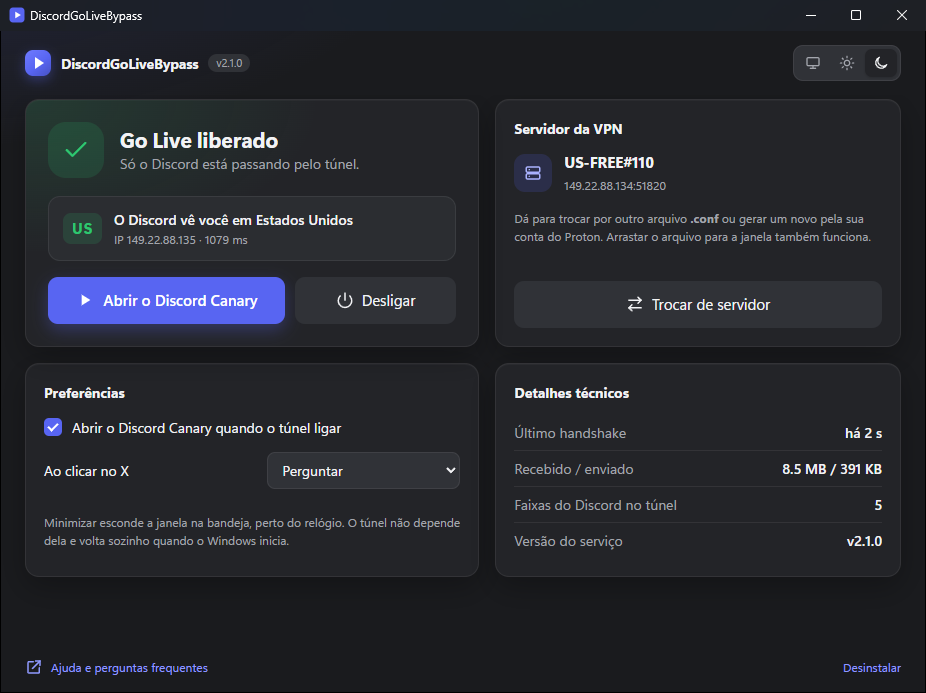
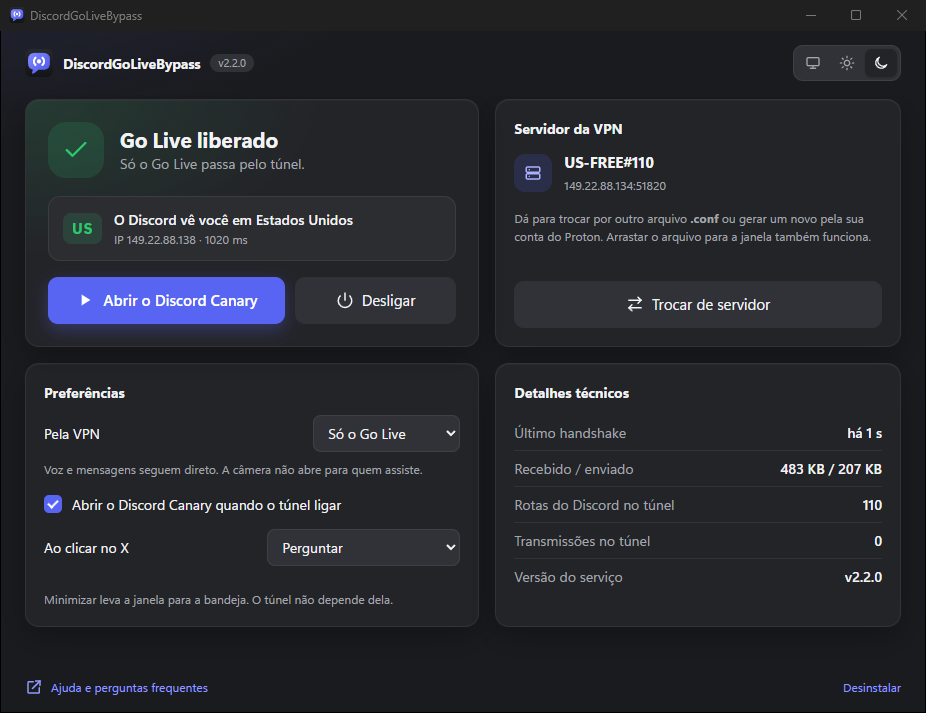
📚 docs: os dois modos no readme e no guia

diff --git a/README.md b/README.md
@@ -4,7 +4,7 @@
 
 # DiscordGoLiveBypass
 
-**Leva só o Discord por uma VPN fora do Brasil e devolve o Go Live, a câmera e a transmissão de tela.**
+**Passa o Go Live do Discord por uma VPN fora do Brasil e deixa a voz e as mensagens na sua conexão.**
 
 [![Versão](https://img.shields.io/github/v/release/thomassolcia/DiscordGoLiveBypass?style=flat-square&label=vers%C3%A3o&color=5865F2)](../../releases/latest)
 [![Downloads](https://img.shields.io/github/downloads/thomassolcia/DiscordGoLiveBypass/total?style=flat-square&label=downloads&color=5865F2)](../../releases)
@@ -16,14 +16,14 @@
 
 </div>
 
-Você abre o programa, entra com a sua conta gratuita do Proton VPN ou escolhe um arquivo WireGuard, e clica em Ativar. A partir daí um serviço do Windows mantém um túnel que leva apenas o tráfego do Discord para fora do Brasil, desde que o computador liga. Você abre o Discord pelo atalho de sempre e o Go Live funciona.
+Você abre o programa, entra com a sua conta gratuita do Proton VPN ou escolhe um arquivo WireGuard, e clica em Ativar. A partir daí um serviço do Windows mantém um túnel que leva para fora do Brasil só o que o Discord precisa para liberar o Go Live, desde que o computador liga. Você abre o Discord pelo atalho de sempre e o Go Live funciona.
 
 <p align="center">
-  <img src="docs/janela-escura.png" alt="Janela do DiscordGoLiveBypass no tema escuro, com o Go Live liberado e o Discord saindo pelos Estados Unidos" width="49%">
+  <img src="docs/janela-escura.png" alt="Janela do DiscordGoLiveBypass no tema escuro, com o Go Live liberado e só a transmissão passando pelo túnel" width="49%">
   <img src="docs/janela-clara.png" alt="A mesma janela no tema claro" width="49%">
 </p>
 
-> **Windows 10 e 11.** Só o Discord muda de rota: o jogo que você está transmitindo, o navegador e o resto do computador continuam na sua conexão normal. O servidor de saída é o da sua VPN, então a confiança que vale é a que você tem nela.
+> **Windows 10 e 11.** Por padrão, só o gateway e a API do Discord e as transmissões mudam de rota. A voz da chamada, as mensagens, os anexos, o jogo que você está transmitindo e o resto do computador continuam na sua conexão normal. Quem precisa da câmera pode pôr o Discord inteiro no túnel, com a voz mais lenta. O servidor de saída é o da sua VPN, então a confiança que vale é a que você tem nela.
 
 ## Por que o Go Live parou de funcionar
 
@@ -44,6 +44,8 @@ Até a 1.0.4 o programa abria o Discord com `--proxy-server`, apontando para um 
 No começo de setembro o Discord passou a recusar essa combinação. A transmissão liberava, mas quem tentava assistir ficava no carregamento e caía em "Stream failed to start", **Erro 2012**, que é o tempo limite de 20 segundos esperando o primeiro quadro de vídeo. Proxy gratuito e Tor não carregam UDP, então nenhum ajuste no modelo antigo resolvia.
 
 Desde a 2.0, o programa liga um túnel WireGuard e põe nele as faixas de IP do Discord: gateway, API, CDN e os servidores de voz e vídeo. Tudo o que o Discord faz sai pelo mesmo IP de fora, UDP incluso. A 2.1 manteve o túnel e trocou a janela preta por um aplicativo de verdade.
+
+Levar o Discord inteiro tinha um preço. A voz ia até o servidor da VPN e voltava, e com o Proton gratuito, que sai nos Estados Unidos, a chamada passava de 200 ms. Pior: o Discord escolhe a região da chamada pelo IP de quem pergunta, então quem estava no Brasil caía num servidor de Seattle. Nos testes da 2.2, a transmissão abriu para quem assistia com só o gateway, a API e a conexão da própria transmissão saindo pela VPN. Por isso, agora é só isso que passa pelo túnel. A voz, as mensagens, os anexos e o teste de latência voltam para a sua conexão, e a chamada volta para um servidor do Brasil. A câmera é a exceção, e está explicada em [Só o Go Live ou o Discord inteiro](#só-o-go-live-ou-o-discord-inteiro).
 
 ## Como usar
 
@@ -74,6 +76,16 @@ Nada. O túnel liga sozinho quando o Windows inicia, e você abre o Discord pelo
 A janela serve para ver e mexer: mostra em que país o Discord vê você, liga e desliga o túnel, troca o servidor e abre o Discord. Minimizar esconde a janela na bandeja, perto do relógio, e o menu do ícone faz as mesmas coisas. O tema claro, escuro ou o do Windows se escolhe no canto de cima.
 
 O X pergunta o que você quer: deixar o programa na bandeja, com o túnel ligado e o Go Live funcionando, ou desligar o túnel e fechar. Marcando **Não perguntar de novo**, a escolha vira o padrão, e dá para trocá-la nas preferências.
+
+### Só o Go Live ou o Discord inteiro
+
+Nas preferências da janela, **Pela VPN** escolhe o que passa pelo túnel.
+
+**Só o Go Live** é o padrão. Pelo túnel vão o gateway e a API do Discord, que é onde ele decide o que a conta pode fazer, e cada transmissão, só enquanto ela está aberta, seja a sua ou uma que você está assistindo. A voz, as mensagens, os anexos e as imagens seguem pela sua conexão, sem atraso, e a chamada fica num servidor do Brasil quando é você quem entra primeiro. A câmera não abre para quem assiste, porque ela viaja na mesma conexão da voz e o Discord decide o bloqueio na hora em que essa conexão nasce.
+
+**O Discord inteiro** funciona como até a 2.1: tudo do Discord passa pelo túnel. A câmera volta a funcionar, mas a voz faz a volta até o servidor da VPN e ganha esse atraso.
+
+A troca vale na hora para o túnel, mas uma chamada em andamento continua do jeito que entrou. Depois de trocar, saia e entre de novo na chamada.
 
 ## Antes de confiar no arquivo
 
@@ -106,7 +118,7 @@ Precisa de um servidor WireGuard, e a conta gratuita do Proton VPN é o jeito ma
 <summary><strong>Por que não usar uma VPN comum direto?</strong></summary>
 <br>
 
-Dá, e funciona. A diferença é que a VPN comum leva o computador inteiro: o jogo que você está transmitindo ganha ping, e banco, streaming e downloads passam a sair pelo servidor dela. Aqui só o Discord vai pelo túnel. Se você não se importa de pôr tudo na VPN, ela resolve com o mesmo esforço.
+Dá, e funciona. A diferença é que a VPN comum leva o computador inteiro: o jogo que você está transmitindo ganha ping, a voz da chamada também, e banco, streaming e downloads passam a sair pelo servidor dela. Aqui só o Go Live vai pelo túnel. Se você não se importa de pôr tudo na VPN, ela resolve com o mesmo esforço.
 </details>
 
 <details>
@@ -129,14 +141,18 @@ Um serviço chamado `DiscordGoLiveBypass`, o programa em `C:\Program Files\Disco
 <summary><strong>Vai ficar lento?</strong></summary>
 <br>
 
-O Discord passa a dar a volta pelo servidor da VPN, então o ping dele sobe um pouco, mais ou menos o quanto o servidor está longe. O resto do computador não muda. O plano gratuito do Proton tem velocidade média e servidores às vezes cheios; se a chamada engasgar, gere um arquivo com outro servidor e arraste para a janela.
+No modo **Só o Go Live**, a voz, as mensagens e o resto do computador não mudam. Quem dá a volta pelo servidor da VPN é a transmissão, então a imagem chega a quem assiste com um pouco mais de atraso, mais ou menos o quanto o servidor está longe. No modo **O Discord inteiro**, a voz faz a mesma volta, e com o Proton gratuito nos Estados Unidos isso passa de 200 ms.
+
+O plano gratuito do Proton tem velocidade média e servidores às vezes cheios. Se a transmissão engasgar, gere um arquivo com outro servidor e arraste para a janela.
 </details>
 
 <details>
 <summary><strong>Funciona no Discord estável, PTB e Canary?</strong></summary>
 <br>
 
-Nos três. O túnel pega o tráfego de qualquer um deles, e também o do Discord no navegador. O botão "Abrir o Discord" abre o que já estiver aberto ou, se nenhum estiver, o primeiro instalado: estável, depois PTB, depois Canary.
+Nos três. O túnel pega o tráfego de qualquer um deles, e o serviço acompanha o registro dos três para saber quando uma transmissão abre. O botão "Abrir o Discord" abre o que já estiver aberto ou, se nenhum estiver, o primeiro instalado: estável, depois PTB, depois Canary.
+
+O Discord no navegador não escreve esse registro, então no modo **Só o Go Live** o serviço não vê a transmissão abrir e ela sai pela sua conexão. Para transmitir pelo navegador, troque para **O Discord inteiro**.
 </details>
 
 <details>
@@ -162,6 +178,22 @@ De vez em quando o Proton pede um CAPTCHA no login. Ele abre numa janelinha sepa
 Clique em **Trocar de servidor**. Na tela que abre, você escolhe outro arquivo `.conf` ou entra com a conta do Proton e escolhe o país; arrastar um arquivo para a janela abre a mesma tela. Depois de confirmar a troca, o túnel passa a usar o novo servidor na hora.
 
 A configuração gerada pela conta tem validade: o programa pede um ano ao Proton, e a data que ele concedeu aparece na janela quando ela é criada. Depois disso, é só gerar outra.
+</details>
+
+<details>
+<summary><strong>O serviço lê o registro do Discord?</strong></summary>
+<br>
+
+Lê. No modo **Só o Go Live**, é assim que ele sabe a hora de pôr uma transmissão no túnel: o Discord anota no `renderer_js.log`, dentro de `%APPDATA%\discord\logs` (ou `discordptb` e `discordcanary`), quando vai abrir uma transmissão e a que servidor de mídia conectou. O serviço acompanha esse arquivo enquanto ele cresce e só procura essas linhas. Nada do arquivo é guardado nem sai do computador. No registro do próprio serviço fica só a hora em que cada transmissão abre e fecha e o servidor do Discord que ela usou.
+
+No modo **O Discord inteiro**, o registro não é usado para nada.
+</details>
+
+<details>
+<summary><strong>Eu usava a 2.1, o que muda?</strong></summary>
+<br>
+
+Depois de atualizar, o túnel começa no modo **Só o Go Live**: a voz volta para a sua conexão e a chamada para um servidor do Brasil. Se você usa câmera, troque para **O Discord inteiro** nas preferências. Feche o Discord pela bandeja, em **Sair**, e abra de novo, para ele refazer o teste de latência pela sua conexão.
 </details>
 
 <details>
@@ -212,9 +244,27 @@ O Windows recusou o driver ou o adaptador. Antivírus com proteção de rede cos
 <summary><strong>O Go Live continua bloqueado ou dá Erro 2012</strong></summary>
 <br>
 
-Confira três coisas. Plugin de bypass ativo no Vencord ou BetterDiscord mexe na conexão depois que o Discord abre e pode desfazer o túnel: desative e tente de novo. Quem assiste também precisa estar com o Go Live liberado, por este programa ou por uma VPN. E o `Validar-rota.ps1`, que vem no `.zip`, mostra se a voz e o vídeo estão mesmo saindo pelo adaptador `DiscordGoLiveBypass`.
+Confira três coisas. Plugin de bypass ativo no Vencord ou BetterDiscord mexe na conexão depois que o Discord abre e pode desfazer o túnel: desative e tente de novo. Quem assiste também precisa estar com o Go Live liberado, por este programa ou por uma VPN. E o `Validar-rota.ps1`, que vem no `.zip`, mostra o modo do túnel e por onde cada parte do Discord está saindo.
 
-Se a transmissão abre, mas quem assiste fica carregando, olhe a linha `Ultimo servidor de voz e video do Discord` no resultado do script. Se ela aparece em vermelho, o Discord mudou os servidores de mídia de lugar de novo e o túnel ainda não conhece a faixa nova: abra uma issue com esse resultado.
+No modo **Só o Go Live**, com a transmissão aberta, a linha **Transmissões no túnel** dos detalhes técnicos tem que mostrar pelo menos 1. Se ela fica em 0, o serviço não viu a transmissão no registro do Discord, e ela saiu pela sua conexão. Isso acontece com o Discord no navegador. Troque para **O Discord inteiro** e, se resolver, abra uma issue contando qual Discord você usa.
+
+Se a transmissão abre, mas quem assiste fica carregando, olhe as linhas de servidor de mídia no resultado do script. Se uma delas aparece em vermelho, o Discord mudou os servidores de mídia de lugar de novo e o túnel ainda não conhece a faixa nova: abra uma issue com esse resultado.
+</details>
+
+<details>
+<summary><strong>A câmera não abre para quem assiste</strong></summary>
+<br>
+
+No modo **Só o Go Live**, é esperado. A câmera viaja na mesma conexão da voz, e o Discord decide se ela pode ser vista na hora em que essa conexão nasce, pelo IP de onde ela vem. Trocar o caminho no meio da chamada não muda a decisão. Para usar a câmera, troque para **O Discord inteiro** nas preferências, saia da chamada e entre de novo.
+</details>
+
+<details>
+<summary><strong>A voz continua num servidor dos Estados Unidos</strong></summary>
+<br>
+
+A região da chamada é escolhida por quem entra primeiro. Se essa pessoa está com o Discord inteiro numa VPN, seja por uma VPN comum, pelo modo **O Discord inteiro** ou por uma versão anterior deste programa, a chamada cai nos Estados Unidos e a sua voz vai junto, mesmo saindo pela sua conexão.
+
+Logo depois de atualizar da 2.1, o Discord também pode guardar o teste de latência antigo, feito pela VPN. Feche o Discord pela bandeja, em **Sair**, e abra de novo. Se a primeira chamada ainda cair longe, feche e abra mais uma vez.
 </details>
 
 <details>
@@ -230,7 +280,7 @@ Com o Discord aberto, clique com o botão direito no `Validar-rota.ps1`, escolha
 <summary><strong>É seguro?</strong></summary>
 <br>
 
-O tráfego do Discord passa pelo servidor da VPN que você escolheu, criptografado pelo WireGuard até lá. A chave fica só no seu computador, numa pasta que só o sistema e os administradores leem. A janela só entrega a chave ao serviço depois de conferir que o canal entre os dois pertence mesmo ao sistema, e nada no programa mostra ou registra a chave, nem em mensagem de erro.
+O que entra no túnel passa pelo servidor da VPN que você escolheu, criptografado pelo WireGuard até lá. A chave fica só no seu computador, numa pasta que só o sistema e os administradores leem. A janela só entrega a chave ao serviço depois de conferir que o canal entre os dois pertence mesmo ao sistema, e nada no programa mostra ou registra a chave, nem em mensagem de erro.
 </details>
 
 <details>
@@ -251,7 +301,13 @@ Programa novo, sem assinatura digital, que instala um serviço e cria adaptador 
 
 Um executável só faz três papéis. Aberto normalmente, é a janela, feita com o [Wails](https://wails.io): HTML e JavaScript simples, desenhados pelo navegador embutido do Windows (WebView2), e o resto em Go. Com `-service`, é o serviço do Windows que mantém o túnel. E com `-install` ou `-uninstall`, é o passo que a janela roda com administrador para instalar ou remover esse serviço.
 
-O serviço roda como sistema a partir de Arquivos de Programas, onde só administrador escreve. Ele cria um adaptador com o driver WireGuardNT e põe nele só as faixas do Discord: `104.29.128.0/18`, o trecho da Cloudflare onde ficam hoje os servidores de voz e vídeo, `162.159.128.0/20`, outro trecho da Cloudflare, com gateway, API e CDN, e `66.22.192.0/18` e `195.62.89.0/24`, os blocos próprios do Discord, onde a voz ficava até setembro de 2026, mais os equivalentes em IPv6. Os blocos próprios aparecem no registro do RIPE com o nome do Discord; o trecho da voz não aparece em registro nenhum, e quem mostra é o log do próprio cliente, com o IP de cada servidor de mídia a que ele conecta. Rota mais específica vence a rota padrão, então só esse tráfego entra no túnel, e o Windows escolhe isso sozinho para qualquer programa, inclusive o motor de mídia nativo do Discord.
+O serviço roda como sistema a partir de Arquivos de Programas, onde só administrador escreve. Ele cria um adaptador com o driver WireGuardNT e põe nele rotas para endereços do Discord. Rota mais específica vence a rota padrão, então só esse tráfego entra no túnel, e o Windows escolhe isso sozinho para qualquer programa, inclusive o motor de mídia nativo do Discord.
+
+O Discord usa quatro faixas: `162.159.128.0/20`, um trecho da Cloudflare com gateway, API, CDN e o teste de latência, `104.29.128.0/18`, outro trecho da Cloudflare, onde ficam hoje os servidores de voz e vídeo, e `66.22.192.0/18` e `195.62.89.0/24`, os blocos próprios do Discord, onde a voz ficava até setembro de 2026, mais os equivalentes em IPv6. Os blocos próprios aparecem no registro do RIPE com o nome do Discord; o trecho da voz não aparece em registro nenhum, e quem mostra é o log do próprio cliente, com o IP de cada servidor de mídia a que ele conecta. No modo **O Discord inteiro**, as quatro faixas vão para o túnel.
+
+No modo **Só o Go Live**, vai só o trecho `162.159.128.0/20` e o equivalente em IPv6, recortados. O serviço resolve na hora os nomes da CDN, das imagens e do teste de latência e tira do túnel os endereços deles, quebrando o trecho em blocos menores em volta de cada um. Um endereço que também atende o gateway ou a API nunca sai, mesmo que outro nome aponte para ele, e se o gateway aparecer num endereço fora do trecho, esse endereço entra sozinho. Os servidores de voz e vídeo ficam fora, e cada transmissão entra sozinha: o serviço acompanha o `renderer_js.log` do Discord, vê a linha em que ele anuncia a transmissão e depois a conexão ao servidor de mídia dela, e põe no túnel uma rota só para aquele IP, que sai quando a transmissão fecha. Entre o anúncio e a conexão passam uns 0,4 segundo, pouco para ler o arquivo e mexer na rota com segurança. Por isso, assim que a transmissão é anunciada, as faixas de mídia inteiras entram no túnel, menos o servidor da voz em uso, e saem quando o IP certo aparece ou depois de 10 segundos.
+
+Trocar de modo, ou abrir e fechar uma transmissão, mexe só nas rotas que mudaram. O adaptador continua de pé, porque recriá-lo derrubaria o gateway, que reconectaria pela sua conexão antes de o túnel voltar.
 
 As rotas só entram depois que o servidor da VPN responde ao primeiro handshake, e saem se ele passar três minutos sem responder. Um servidor fora do ar nunca deixa o Discord sem conexão: no máximo sem Go Live, até ele voltar.
 
@@ -278,9 +334,12 @@ Precisa do [Go](https://go.dev/dl/). No PowerShell, na pasta do projeto:
 | `service_windows.go` | serviço, instalação, remoção e a pasta protegida da configuração |
 | `engine_windows.go` | adaptador WireGuardNT, rotas e acompanhamento do handshake |
 | `state.go` | quando pôr e tirar as rotas, em funções puras |
+| `split.go` | leitura das linhas de transmissão do registro do Discord e as rotas que saem delas |
+| `watch.go` | acompanhamento do registro, linha a linha, e aviso ao túnel quando as rotas mudam |
+| `logtail_windows.go` | leitura do `renderer_js.log` sem travar o Discord, inclusive quando ele troca de arquivo |
 | `ipc.go`, `ipc_windows.go` | canal entre a janela e o serviço |
 | `wgconf_windows.go` | leitura e validação do `.conf`, sem expor a chave |
-| `routes.go` | faixas de IP do Discord e resolução dos domínios |
+| `routes.go` | faixas de IP do Discord, as rotas de cada modo e resolução dos domínios |
 | `trace.go` | país e IP que o Discord enxerga |
 | `wgfile.go` | busca do `.conf` nos Downloads |
 | `discord.go` | detecção da instalação e abertura do Discord |

diff --git a/CONTRIBUTING.md b/CONTRIBUTING.md
@@ -27,7 +27,9 @@ Para gerar o executável igual ao da release, com o driver WireGuardNT embutido:
 .\Compilar.ps1
 ```
 
-Testar o túnel de verdade pede três coisas que a CI não tem: administrador, um Discord instalado e um arquivo WireGuard seu. Se a sua mudança mexe no serviço, no túnel ou nas rotas (`service_windows.go`, `engine_windows.go`, `state.go`, `routes.go`), rode o programa compilado, ative, abra uma call e diga no pull request o que você testou: assistir a uma transmissão, transmitir, desligar e ligar o túnel pela janela. Se mexe na janela (`gui_windows.go`, `tray_windows.go` ou `frontend/`), confira os dois temas e a bandeja. O `Validar-rota.ps1` ajuda a mostrar que o tráfego saiu pelo adaptador certo.
+Testar o túnel de verdade pede três coisas que a CI não tem: administrador, um Discord instalado e um arquivo WireGuard seu. Se a sua mudança mexe no serviço, no túnel ou nas rotas (`service_windows.go`, `engine_windows.go`, `state.go`, `routes.go`, `split.go`, `watch.go`, `logtail_windows.go`), rode o programa compilado, ative, abra uma call e diga no pull request o que você testou: assistir a uma transmissão, transmitir, desligar e ligar o túnel pela janela, nos dois modos. No modo **Só o Go Live**, confira também que a voz ficou num servidor perto de você e que **Transmissões no túnel** sobe quando a transmissão abre e volta a 0 quando ela fecha. Se mexe na janela (`gui_windows.go`, `tray_windows.go` ou `frontend/`), confira os dois temas e a bandeja. O `Validar-rota.ps1` ajuda a mostrar que o tráfego saiu pelo adaptador certo.
+
+O registro do Discord muda de formato sem aviso, e o `split.go` depende dele. Os testes guardam linhas reais copiadas do `renderer_js.log`; se o Discord mudar alguma, acrescente a linha nova aos testes em vez de trocar a antiga, para quem ainda está numa versão anterior do Discord continuar coberto. Ao copiar linhas do registro, apague as que trazem `local address`, que mostram o seu IP.
 
 Se mexe no login do Proton (`proton.go`, `gui_proton_windows.go`, `captcha_windows.go`), teste com uma conta sua, gratuita serve, e conte no pull request se ela tinha verificação em duas etapas e se apareceu a verificação de robô. Os testes cobrem a conversão de chave e a montagem do arquivo, mas o Proton muda as regras do login sem avisar e só uma conta de verdade mostra isso.
 
